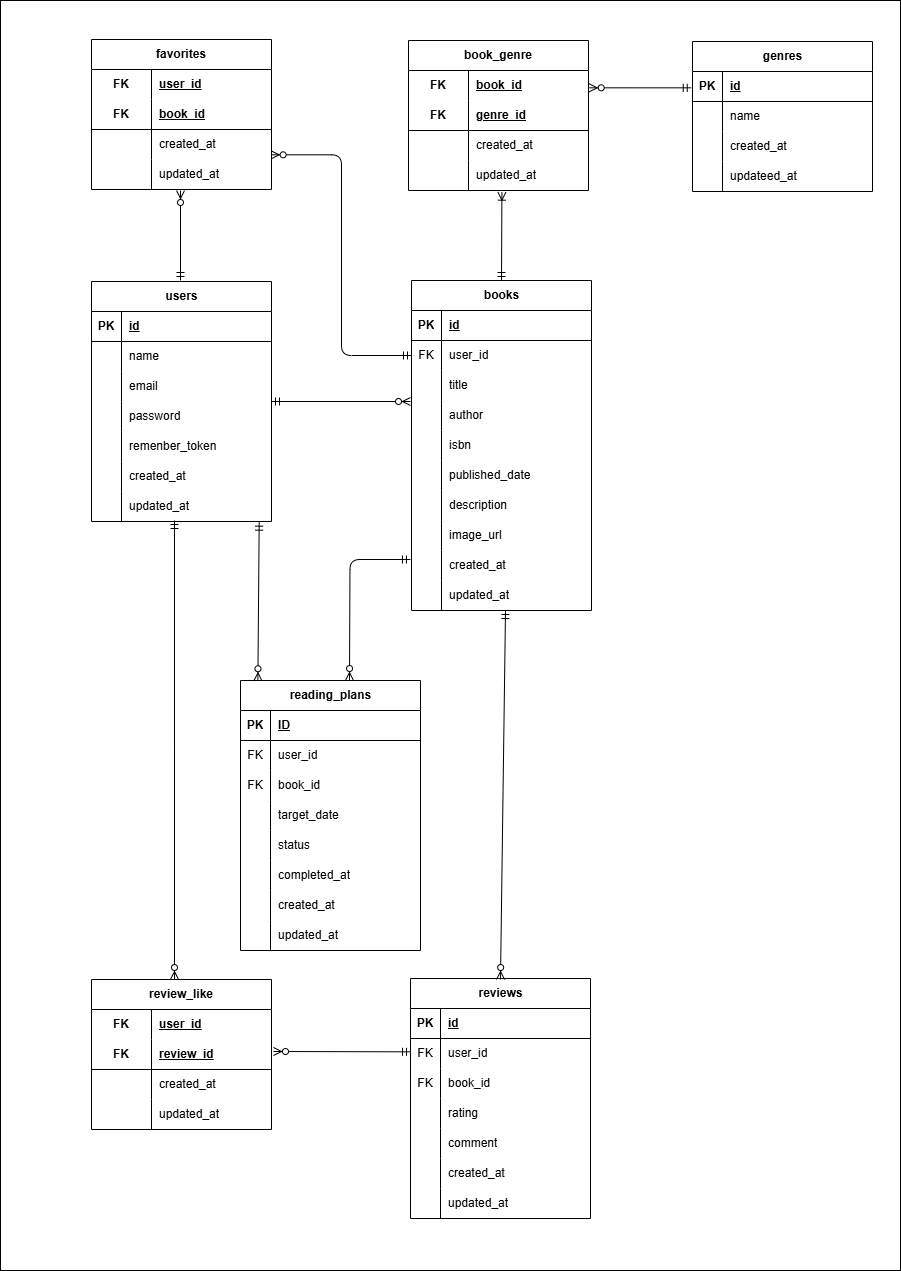
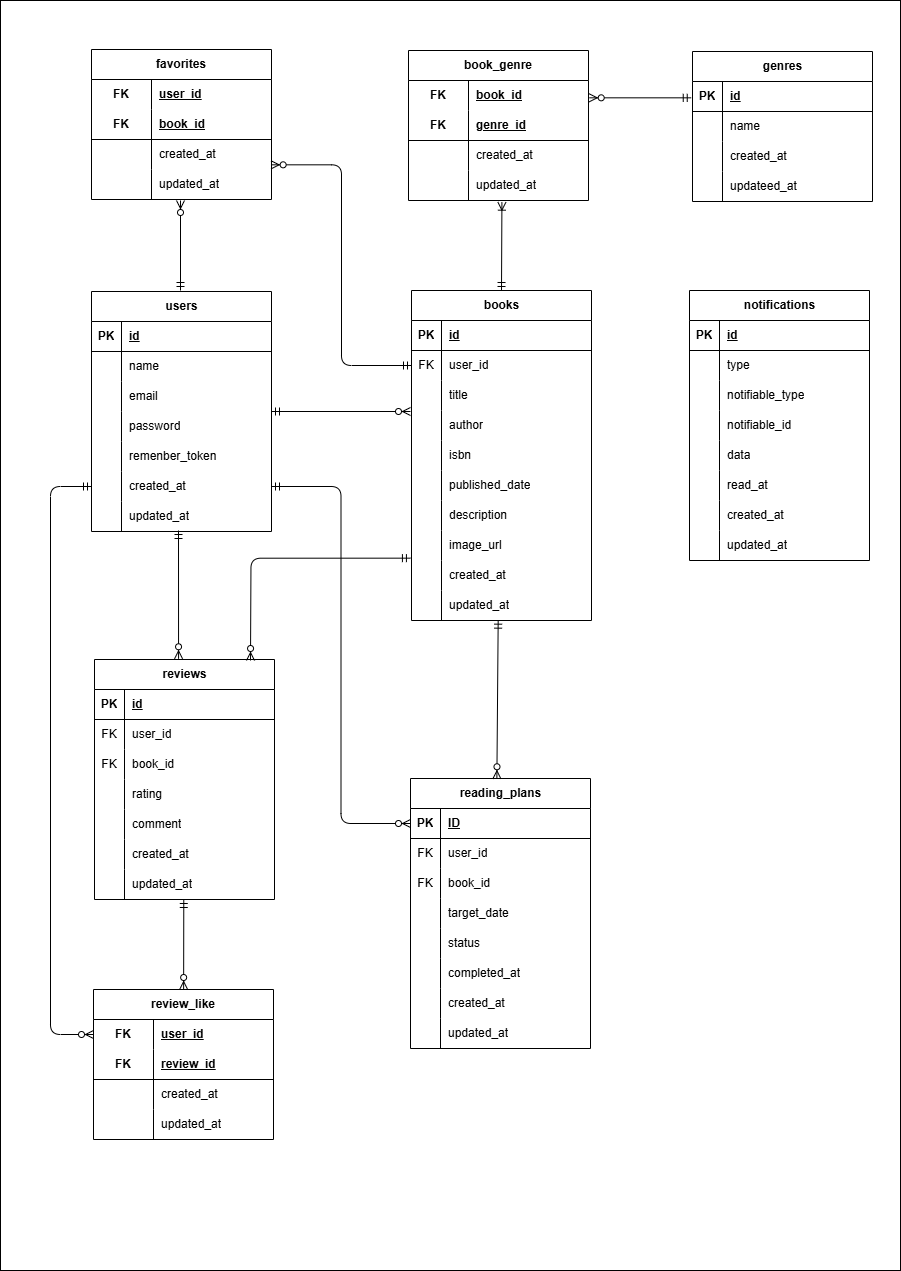
docs: update ER diagrams

diff --git a/README.md b/README.md
@@ -229,7 +229,109 @@ sail artisan test
 
 ## ER図
 
-![ER図](src/app/docs/er-diagram advanced.md)
+```mermaid
+erDiagram
+
+    USERS {
+        bigint id PK
+        varchar name
+        varchar email
+        varchar password
+        varchar remember_token
+        timestamp created_at
+        timestamp updated_at
+    }
+
+    BOOKS {
+        bigint id PK
+        bigint user_id FK
+        varchar title
+        varchar author
+        varchar isbn
+        date published_date
+        text description
+        varchar image_url
+        timestamp created_at
+        timestamp updated_at
+    }
+
+    REVIEWS {
+        bigint id PK
+        bigint user_id FK
+        bigint book_id FK
+        tinyint rating
+        text comment
+        timestamp created_at
+        timestamp updated_at
+    }
+
+    GENRES {
+        bigint id PK
+        varchar name
+        timestamp created_at
+        timestamp updated_at
+    }
+
+    FAVORITES {
+        bigint user_id FK
+        bigint book_id FK
+        timestamp created_at
+        timestamp updated_at
+    }
+
+    REVIEW_LIKE {
+        bigint user_id FK
+        bigint review_id FK
+        timestamp created_at
+        timestamp updated_at
+    }
+
+    BOOK_GENRE {
+        bigint book_id FK
+        bigint genre_id FK
+        timestamp created_at
+        timestamp updated_at
+    }
+
+    READING_PLANS {
+        bigint id PK
+        bigint user_id FK
+        bigint book_id FK
+        date target_date
+        varchar status
+        timestamp completed_at
+        timestamp created_at
+        timestamp updated_at
+    }
+
+    NOTIFICATIONS {
+        uuid id PK
+        varchar type
+        varchar notifiable_type
+        bigint notifiable_id
+        text data
+        timestamp read_at
+        timestamp created_at
+        timestamp updated_at
+    }
+
+    USERS ||--o{ BOOKS : creates
+    USERS ||--o{ REVIEWS : writes
+
+    BOOKS ||--o{ REVIEWS : has
+
+    BOOKS ||--|{ BOOK_GENRE : belongs_to
+    GENRES ||--o{ BOOK_GENRE : categorizes
+
+    USERS ||--o{ FAVORITES : favorites
+    BOOKS ||--o{ FAVORITES : is_favorited
+
+    USERS ||--o{ REVIEW_LIKE : likes
+    REVIEWS ||--o{ REVIEW_LIKE : receives
+
+    USERS ||--o{ READING_PLANS : manages
+    BOOKS ||--o{ READING_PLANS : planned_for
+```
 
 ## URL
 

diff --git a/docs/er-diagram advanced.md b/docs/er-diagram advanced.md
@@ -75,6 +75,16 @@ erDiagram
         timestamp updated_at
     }
 
+    NOTIFICATIONS {
+        uuid id PK
+        varchar type
+        varchar notifiable_type
+        bigint notifiable_id
+        text data
+        timestamp read_at
+        timestamp created_at
+        timestamp updated_at
+    }
 
     USERS ||--o{ BOOKS : creates
     USERS ||--o{ REVIEWS : writes
